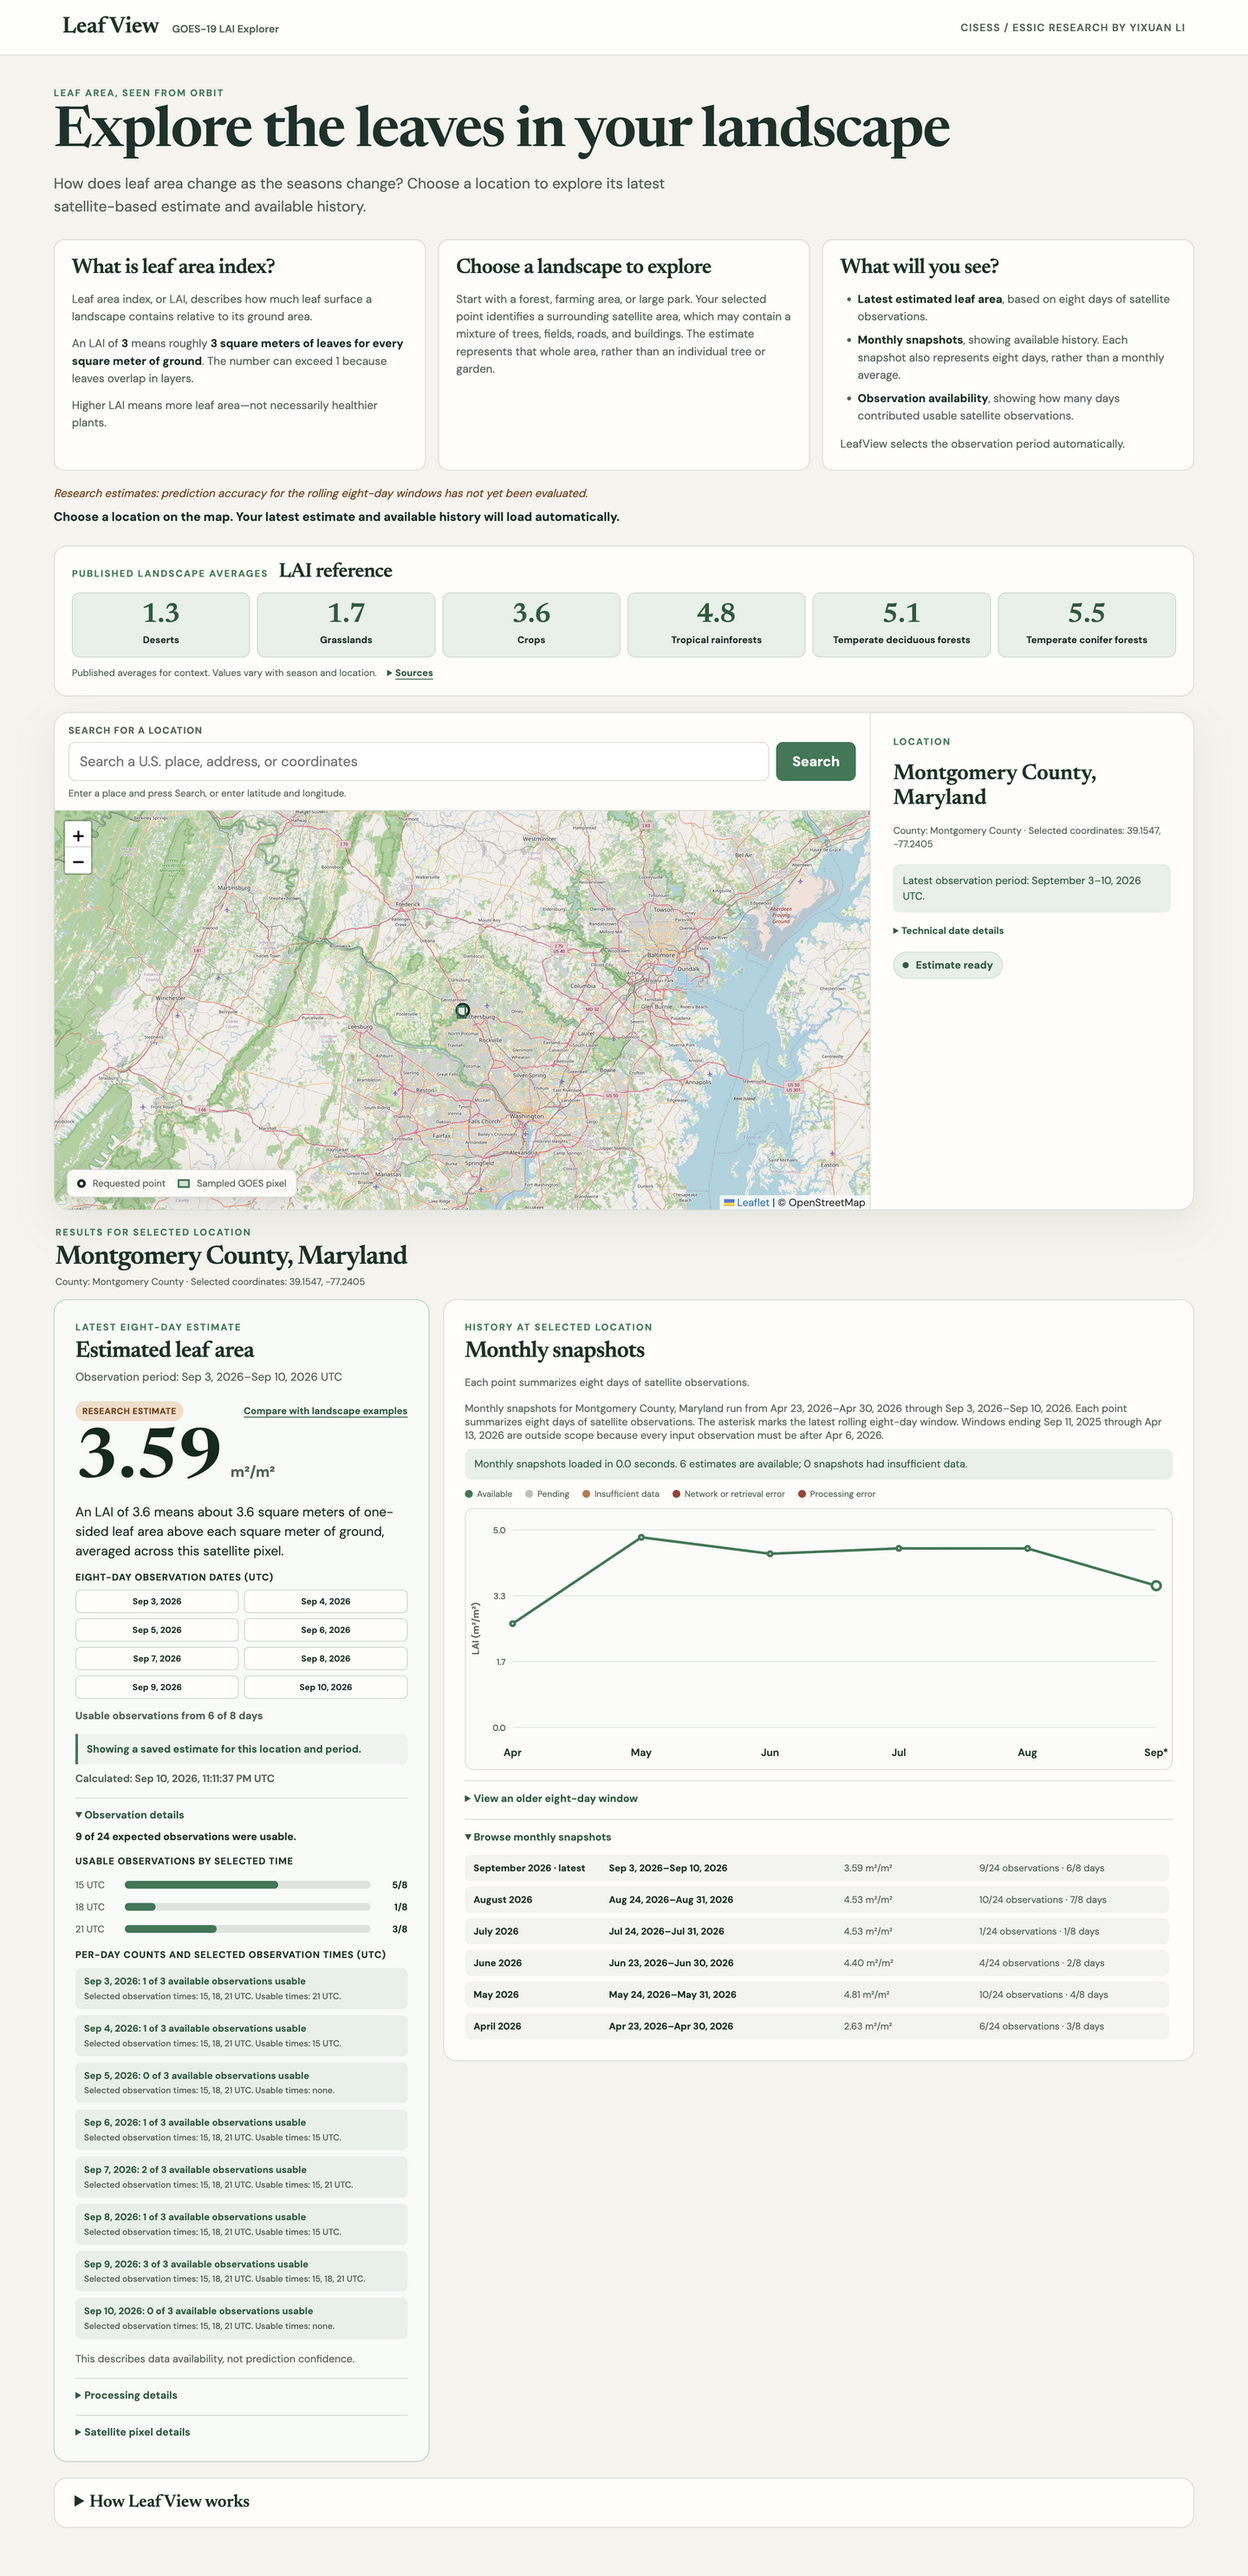
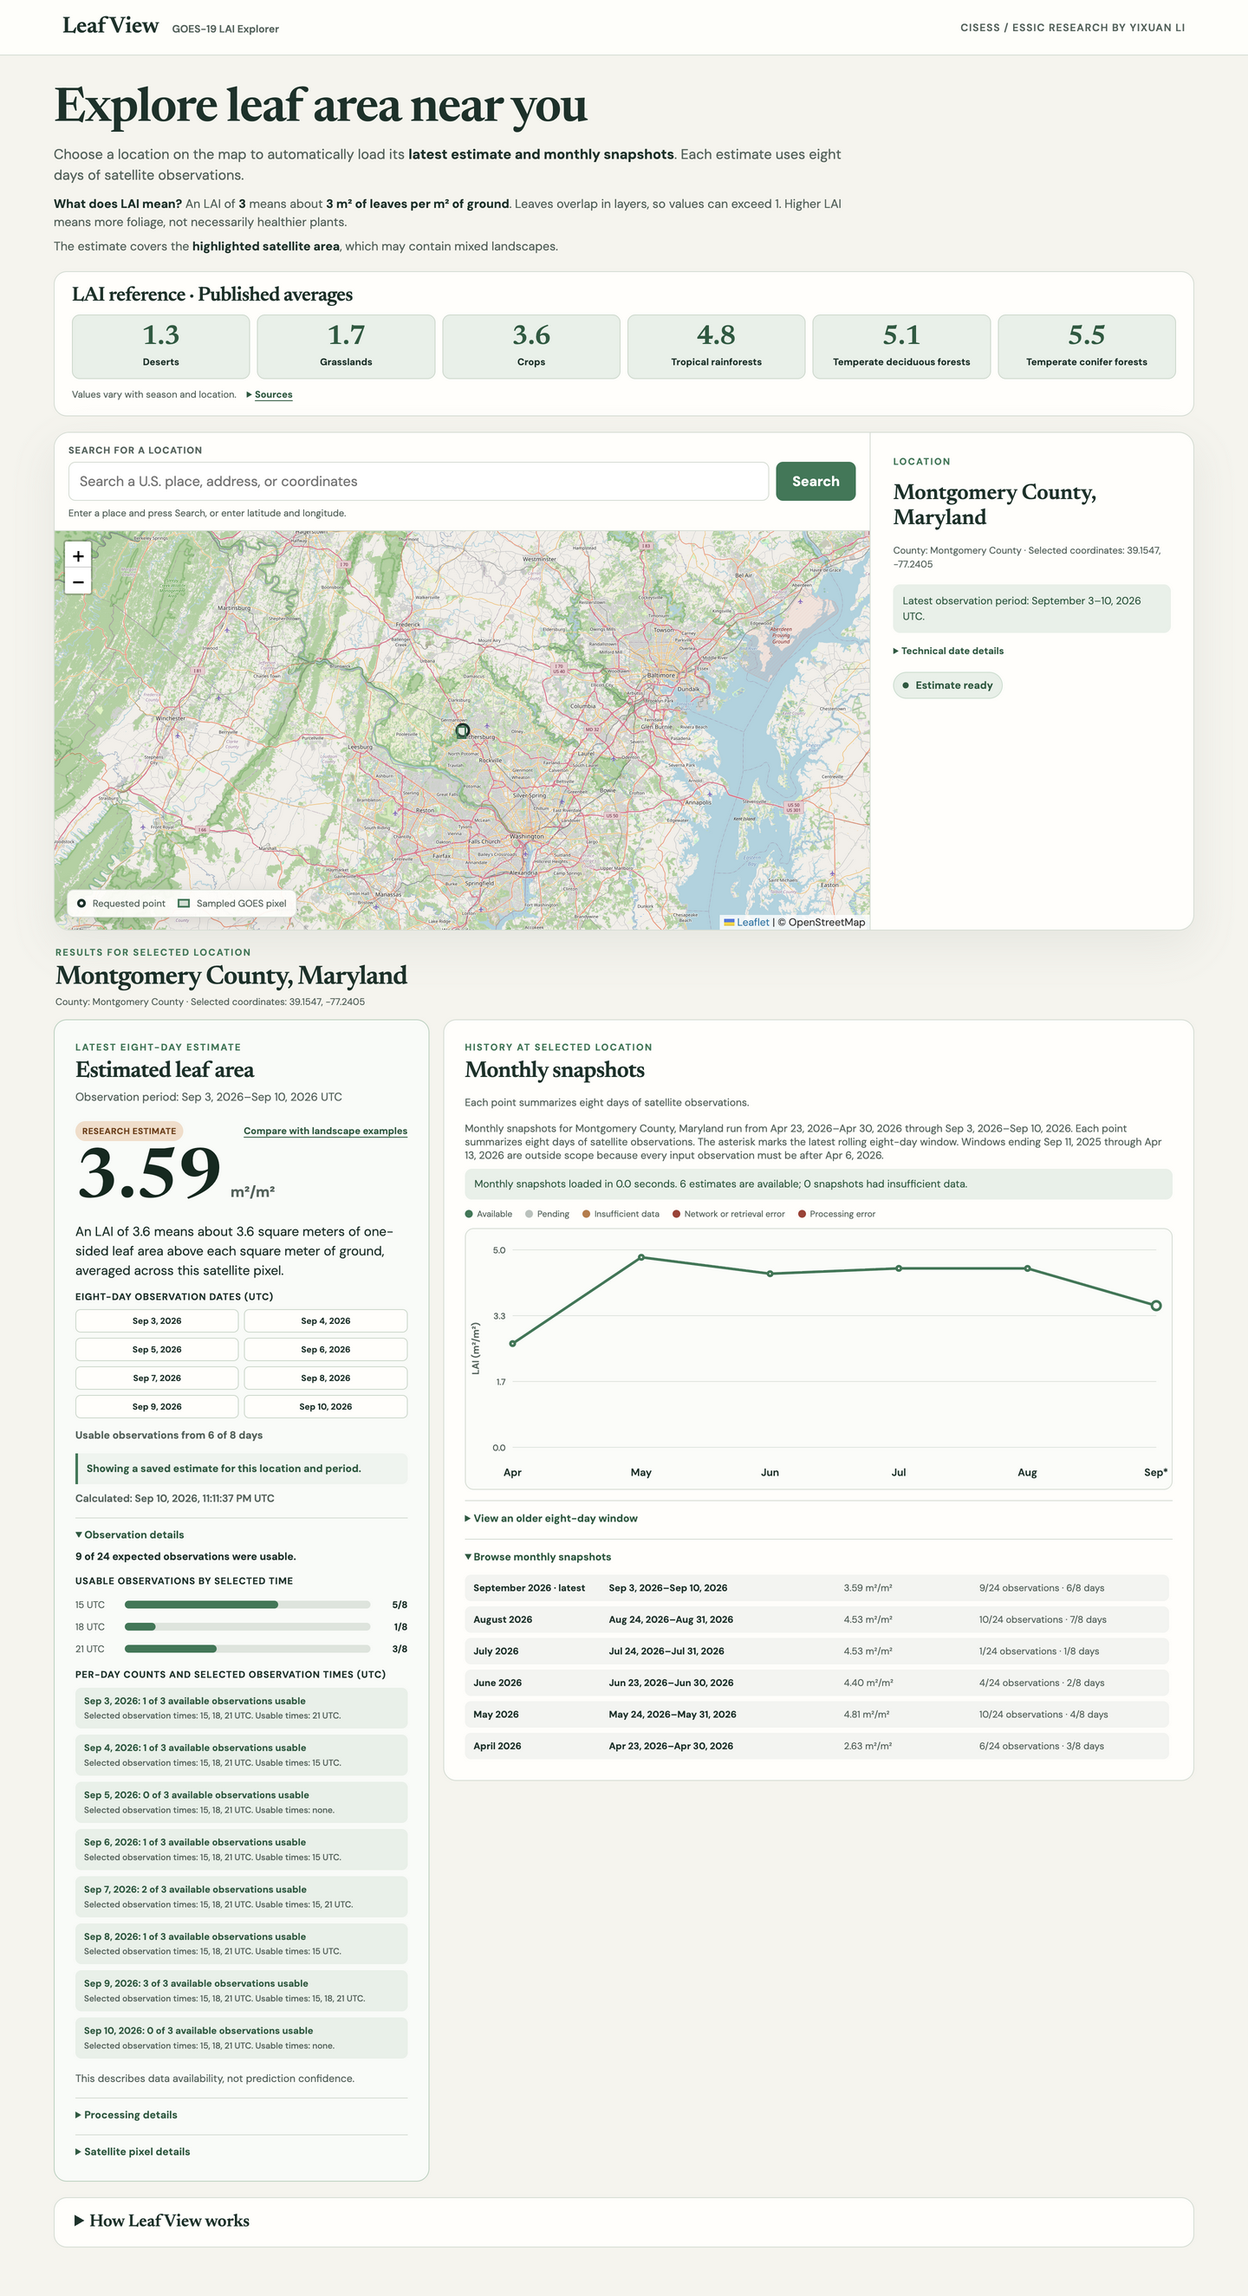
Simplify LeafView introduction

diff --git a/static/app.css b/static/app.css
@@ -19,28 +19,20 @@ header { min-height: 64px; padding: 0 max(24px, 5vw); display: flex; align-items
 .brand span, .research { font: 600 12px "DM Sans", sans-serif; color: var(--muted); margin-left: 10px; }
 .research { text-transform: uppercase; letter-spacing: .08em; }
 main { width: min(1380px, 100%); margin: auto; padding: 36px 32px 56px; }
-.intro { margin-bottom: 24px; }
+.intro { max-width: 1040px; margin-bottom: 18px; }
 .eyebrow { margin: 0 0 7px; text-transform: uppercase; letter-spacing: .13em; font-weight: 700; font-size: 11px; color: var(--leaf); }
 h1, h2 { font-family: Newsreader, serif; letter-spacing: -.018em; }
-h1 { font-size: clamp(40px, 5vw, 64px); line-height: .98; margin: 8px 0 14px; }
+h1 { font-size: clamp(38px, 4.3vw, 54px); line-height: 1; margin: 0 0 12px; }
 h2 { font-size: 30px; margin: 0; }
 h3 { margin: 0 0 12px; font-size: 17px; }
-.intro-lead { max-width: 760px; margin: 0; color: var(--muted); font-size: 17px; line-height: 1.55; }
-.intro-guide { display: grid; grid-template-columns: repeat(3, minmax(0, 1fr)); gap: 14px; margin: 24px 0 16px; }
-.intro-guide article { min-width: 0; padding: 20px; border: 1px solid var(--line); border-radius: 12px; background: var(--card); }
-.intro-guide h2 { margin-bottom: 12px; font-size: 24px; line-height: 1.08; }
-.intro-guide p, .intro-guide li { color: var(--muted); font-size: 13px; line-height: 1.55; }
-.intro-guide p { margin: 0 0 11px; }
-.intro-guide p:last-child { margin-bottom: 0; }
-.intro-guide ul { margin: 0 0 12px; padding-left: 20px; }
-.intro-guide li + li { margin-top: 7px; }
-.intro-guide strong { color: var(--ink); }
-.intro-caveat { max-width: 900px; margin: 0 0 8px; color: var(--warn); font-size: 13px; line-height: 1.55; }
-.intro-begin { margin: 0; color: var(--ink); font-size: 14px; }
+.intro p { max-width: 940px; color: var(--muted); line-height: 1.5; }
+.intro p strong { color: var(--ink); }
+.intro-lead { margin: 0; font-size: 16px; }
+.intro-definition { margin: 11px 0 0; font-size: 14px; }
+.intro-footprint { margin: 7px 0 0; font-size: 14px; }
 
-.lai-reference { margin: 0 0 18px; padding: 18px 20px; border: 1px solid var(--line); border-radius: 15px; background: var(--card); }
-.lai-reference-heading { display: flex; align-items: baseline; gap: 12px; margin-bottom: 12px; }
-.lai-reference-heading .eyebrow { margin: 0; }
+.lai-reference { margin: 0 0 18px; padding: 16px 20px; border: 1px solid var(--line); border-radius: 15px; background: var(--card); }
+.lai-reference-heading { margin-bottom: 10px; }
 .lai-reference-heading h2 { font-size: 23px; }
 .lai-reference-heading h2:focus-visible { outline: 3px solid #83aa91; outline-offset: 3px; border-radius: 3px; }
 .lai-reference-tiles { display: grid; grid-template-columns: repeat(6, minmax(0, 1fr)); gap: 8px; }
@@ -229,8 +221,6 @@ dd { margin: 3px 0 0; color: var(--ink); font-weight: 600; font-size: 12px; font
 
 @media (max-width: 920px) {
   main { padding-inline: 20px; }
-  .intro-guide { grid-template-columns: 1fr 1fr; }
-  .intro-guide article:last-child { grid-column: 1 / -1; }
   .workspace { grid-template-columns: 1.35fr 1fr; }
   .lai-reference-tiles { grid-template-columns: repeat(3, minmax(0, 1fr)); }
   .results-layout { grid-template-columns: minmax(280px, 1fr) minmax(0, 1.65fr); }
@@ -245,16 +235,12 @@ dd { margin: 3px 0 0; color: var(--ink); font-weight: 600; font-size: 12px; font
   .brand span, .research { display: none; }
   main { padding: 26px 14px 40px; }
   .intro { margin-bottom: 20px; }
-  h1 { font-size: 40px; }
+  h1 { font-size: 38px; }
   h2 { font-size: 27px; }
   .intro-lead { font-size: 16px; line-height: 1.5; }
-  .intro-guide { grid-template-columns: 1fr; margin-top: 20px; }
-  .intro-guide article { padding: 17px; }
-  .intro-guide article:last-child { grid-column: auto; }
-  .intro-guide h2 { font-size: 23px; }
+  .intro-definition, .intro-footprint { font-size: 13px; }
   .lai-reference { padding: 16px; }
   .lai-reference-heading { display: block; }
-  .lai-reference-heading .eyebrow { margin-bottom: 5px; }
   .lai-reference-tiles { grid-template-columns: repeat(2, minmax(0, 1fr)); }
   .workspace, .results-layout { grid-template-columns: 1fr; }
   .map-column { border-right: 0; border-bottom: 1px solid var(--line); }

diff --git a/templates/index.html b/templates/index.html
@@ -17,42 +17,15 @@
   </header>
   <main>
     <section class="intro">
-      <p class="eyebrow">Leaf area, seen from orbit</p>
-      <h1>Explore the leaves in your landscape</h1>
-      <p class="intro-lead">How does leaf area change as the seasons change? Choose a location to explore its latest satellite-based estimate and available history.</p>
-
-      <div class="intro-guide">
-        <article>
-          <h2>What is leaf area index?</h2>
-          <p>Leaf area index, or LAI, describes how much leaf surface a landscape contains relative to its ground area.</p>
-          <p>An LAI of <strong>3</strong> means roughly <strong>3 square meters of leaves for every square meter of ground</strong>. The number can exceed 1 because leaves overlap in layers.</p>
-          <p>Higher LAI means more leaf area—not necessarily healthier plants.</p>
-        </article>
-
-        <article>
-          <h2>Choose a landscape to explore</h2>
-          <p>Start with a forest, farming area, or large park. Your selected point identifies a surrounding satellite area, which may contain a mixture of trees, fields, roads, and buildings. The estimate represents that whole area, rather than an individual tree or garden.</p>
-        </article>
-
-        <article>
-          <h2>What will you see?</h2>
-          <ul>
-            <li><strong>Latest estimated leaf area</strong>, based on eight days of satellite observations.</li>
-            <li><strong>Monthly snapshots</strong>, showing available history. Each snapshot also represents eight days, rather than a monthly average.</li>
-            <li><strong>Observation availability</strong>, showing how many days contributed usable satellite observations.</li>
-          </ul>
-          <p>LeafView selects the observation period automatically.</p>
-        </article>
-      </div>
-
-      <p class="intro-caveat"><em>Research estimates: prediction accuracy for the rolling eight-day windows has not yet been evaluated.</em></p>
-      <p class="intro-begin"><strong>Choose a location on the map. Your latest estimate and available history will load automatically.</strong></p>
+      <h1>Explore leaf area near you</h1>
+      <p class="intro-lead">Choose a location on the map to automatically load its <strong>latest estimate and monthly snapshots</strong>. Each estimate uses eight days of satellite observations.</p>
+      <p class="intro-definition"><strong>What does LAI mean?</strong> An LAI of <strong>3</strong> means about <strong>3 m² of leaves per m² of ground</strong>. Leaves overlap in layers, so values can exceed 1. Higher LAI means more foliage, not necessarily healthier plants.</p>
+      <p class="intro-footprint">The estimate covers the <strong>highlighted satellite area</strong>, which may contain mixed landscapes.</p>
     </section>
 
     <section id="landscape-guide" class="lai-reference" aria-labelledby="lai-reference-title">
       <div class="lai-reference-heading">
-        <p class="eyebrow">Published landscape averages</p>
-        <h2 id="lai-reference-title" tabindex="-1">LAI reference</h2>
+        <h2 id="lai-reference-title" tabindex="-1">LAI reference · Published averages</h2>
       </div>
       <div class="lai-reference-tiles" aria-label="Published average leaf area index values">
         <article class="lai-reference-tile"><strong>1.3</strong><span>Deserts</span></article>
@@ -63,7 +36,7 @@
         <article class="lai-reference-tile"><strong>5.5</strong><span>Temperate conifer forests</span></article>
       </div>
       <div class="lai-reference-footer">
-        <p>Published averages for context. Values vary with season and location.</p>
+        <p>Values vary with season and location.</p>
         <details id="lai-reference-sources" class="lai-reference-sources">
           <summary>Sources</summary>
           <div class="lai-reference-sources-content">

diff --git a/tests/test_core.py b/tests/test_core.py
@@ -593,7 +593,7 @@ def test_ui_uses_location_first_latest_estimate_and_query_bound_progressive_hist
     assert 'id="estimate"' not in template
     assert "Get latest estimate" not in template
     assert 'byId("estimate")' not in source
-    assert "Choose a location on the map. Your latest estimate and available history will load automatically." in template
+    assert "Choose a location on the map to automatically load its" in template
     assert 'id="location-search"' in template
     assert 'placeholder="Search a U.S. place, address, or coordinates"' in template
     assert 'id="location-search-suggestions"' in template
@@ -689,14 +689,17 @@ def test_ui_uses_location_first_latest_estimate_and_query_bound_progressive_hist
     assert "LAI alone cannot diagnose plant health or drought" in template
     assert "Methods and limitations" not in template
     assert "Estimated leaf area" in template
-    assert "Explore the leaves in your landscape" in template
-    assert "What is leaf area index?" in template
-    assert "3 square meters of leaves for every square meter of ground" in template
-    assert "Choose a landscape to explore" in template
-    assert "Latest estimated leaf area" in template
-    assert "Observation availability" in template
-    assert "LeafView selects the observation period automatically." in template
-    assert "Research estimates: prediction accuracy for the rolling eight-day windows has not yet been evaluated." in template
+    assert "Explore leaf area near you" in template
+    assert "latest estimate and monthly snapshots" in template
+    assert "Each estimate uses eight days of satellite observations." in template
+    assert "What does LAI mean?" in template
+    assert "3 m² of leaves per m² of ground" in template
+    assert "Higher LAI means more foliage, not necessarily healthier plants." in template
+    assert "highlighted satellite area" in template
+    assert "Accuracy for rolling eight-day estimates has not yet been evaluated." in template
+    assert "Leaf area, seen from orbit" not in template
+    assert "Choose a landscape to explore" not in template
+    assert "What will you see?" not in template
     assert "Choose a location below to begin." not in template
     assert "View an older eight-day window" in template
     assert "History at selected location" in template
@@ -717,7 +720,7 @@ def test_ui_has_compact_always_visible_lai_reference_strip():
     template = (root / "templates/index.html").read_text(encoding="utf-8")
 
     assert '<section id="landscape-guide" class="lai-reference"' in template
-    assert '<h2 id="lai-reference-title" tabindex="-1">LAI reference</h2>' in template
+    assert '<h2 id="lai-reference-title" tabindex="-1">LAI reference · Published averages</h2>' in template
     assert template.index('id="landscape-guide"') < template.index('class="workspace"')
     for landscape, average in (
         ("Deserts", "1.3"),
@@ -729,7 +732,8 @@ def test_ui_has_compact_always_visible_lai_reference_strip():
     ):
         assert f"<strong>{average}</strong><span>{landscape}</span>" in template
 
-    assert "Published averages for context. Values vary with season and location." in template
+    assert "Values vary with season and location." in template
+    assert "Published averages for context." not in template
     assert '<details id="lai-reference-sources" class="lai-reference-sources">' in template
     assert "reference examples—not category boundaries, health ratings" in template
     assert "Leaf area across different landscapes" not in template
